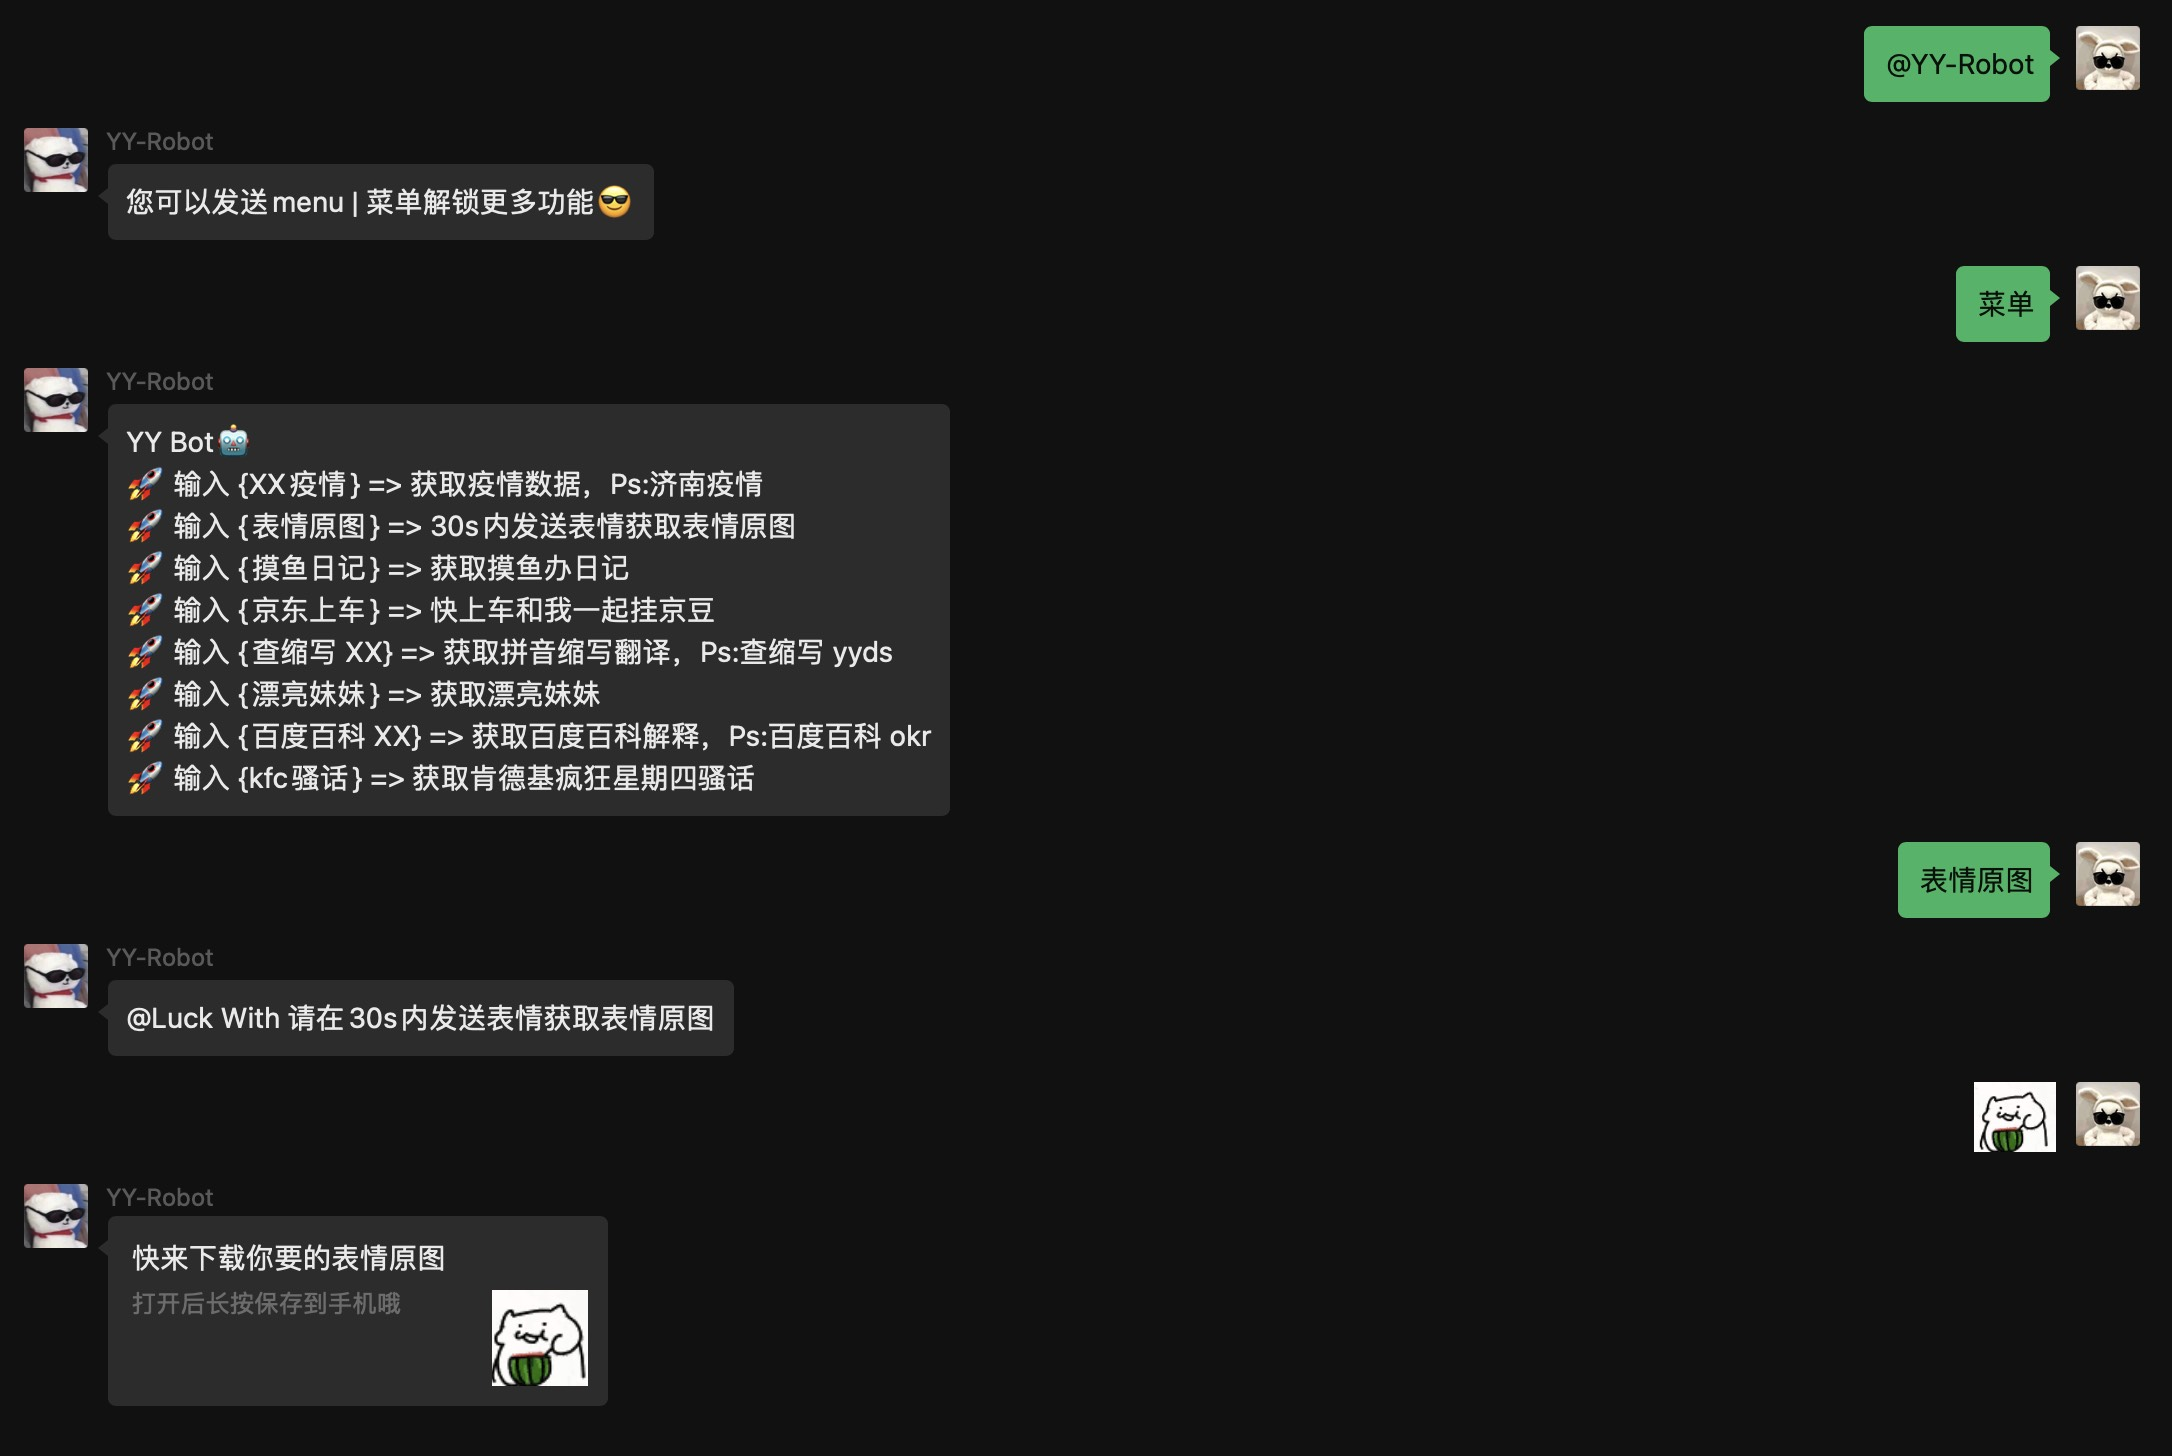
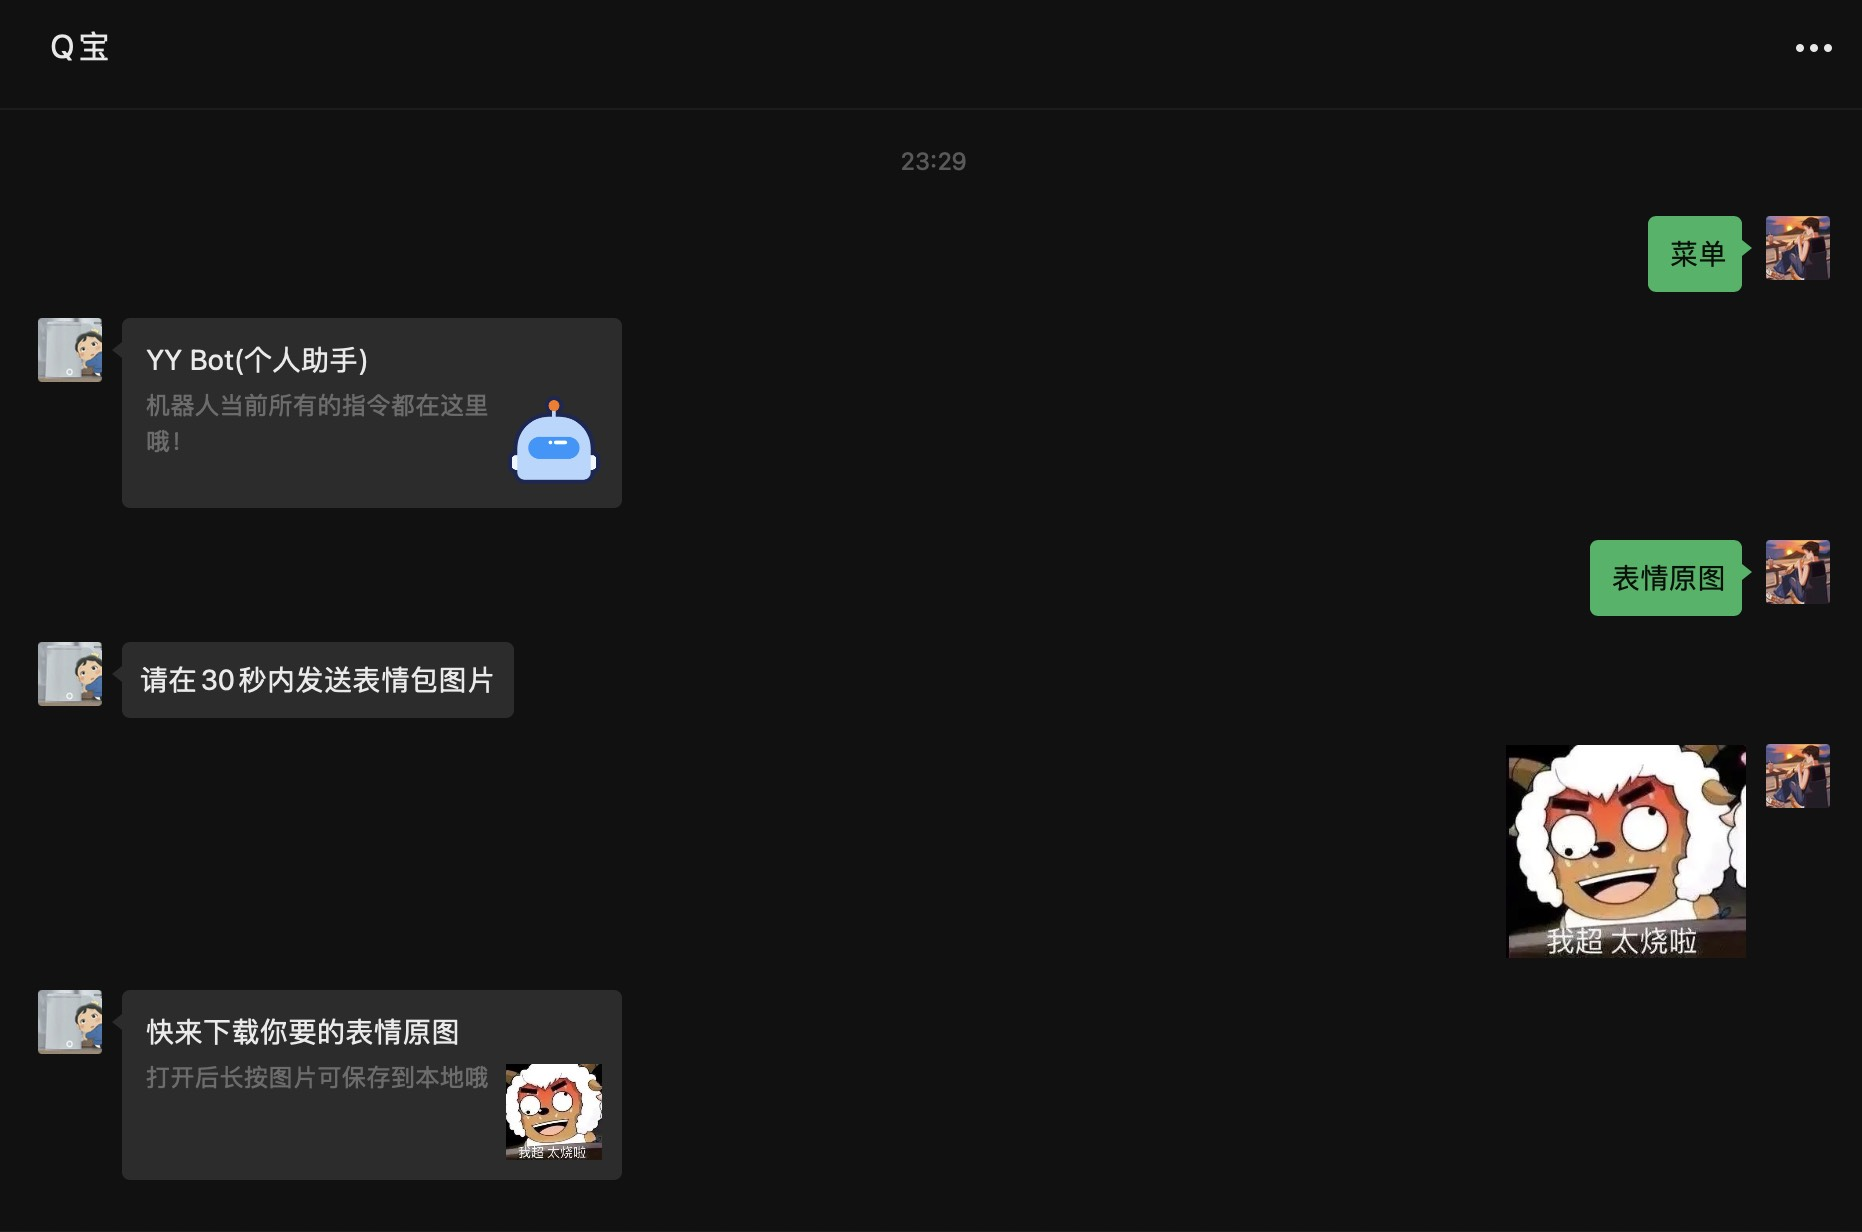
style: 调整菜单输出样式

diff --git a/plugins/manager/cronjob.go b/plugins/manager/cronjob.go
@@ -39,8 +39,22 @@ type CronJob struct {
 
 func registerCronjob() {
 	engine := control.Register("cronjob", &control.Options{
-		Alias:      "定时任务",
-		Help:       "管理员设置定时任务",
+		Alias: "定时任务",
+		Help: "权限:\n" +
+			"仅限机器人管理员\n\n" +
+			"指令:\n" +
+			"* 设置菜单模式[1|2] -> 默认为模式1文本输出，模式2为网页输出(需要配置公网地址)\n" +
+			"* 设置每月[]号[]的提醒 -> 例如：设置每月8号10:00:00的提醒\n" +
+			"* 设置每周[][]的提醒 -> 例如：设置每周三10:00:00的提醒\n" +
+			"* 设置每天[]的提醒 -> 例如：设置每天10:00:00的提醒\n" +
+			"* 设置每隔[]的提醒 -> 例如：设置每隔1小时的提醒\n" +
+			"* 设置[]的提醒 -> 例如：设置2023-01-01 15:00:00的提醒\n" +
+			"* 设置表达式[]的提醒 -> 例如：设置表达式(*/10 * * * * *)的提醒\n" +
+			"* 设置每天[]执行插件 -> 例如：设置每天08:00:00执行插件\n" +
+			"* 列出所有任务\n" +
+			"* 删除任务 [任务ID]\n" +
+			"* 删除全部任务\n" +
+			"* 删除全部提醒任务",
 		DataFolder: "manager",
 	})
 	if err := db.Create("cronjob", &CronJob{}); err != nil {

diff --git a/plugins/wordcloud/main.go b/plugins/wordcloud/main.go
@@ -18,10 +18,13 @@ import (
 func init() {
 	engine := control.Register("wordcloud", &control.Options{
 		Alias: "词云",
-		Help: "输入 {热词} => 获取当前聊天室热词，默认当前聊天室Top30条\n" +
-			"输入 {热词 top 10} => 获取当前聊天室热词前10条\n" +
-			"输入 {热词 id xxx} => 获取指定聊天室热词\n" +
-			"输入 {热词 id xxx top 10} => 获取指定聊天室热词前10条\n",
+		Help: "描述:\n" +
+			"想了解一下当前聊天室的聊天热点？快来试一试\n\n" +
+			"指令:\n" +
+			"* 热词 -> 获取当前聊天室热词，默认当前聊天室Top30条\n" +
+			"* 热词 top [10] -> 获取当前聊天室热词前10条\n" +
+			"* 热词 id [xxx] -> 获取指定聊天室热词\n" +
+			"* 热词 id [xxx] top [10] -> 获取指定聊天室热词前10条\n",
 		DataFolder: "wordcloud",
 	})
 

diff --git a/plugins/chatgpt/main.go b/plugins/chatgpt/main.go
@@ -50,8 +50,11 @@ var defaultGptModel = GptModel{
 
 func init() {
 	engine := control.Register("chatgpt", &control.Options{
-		Alias:      "ChatGPT",
-		Help:       "输入 {开始会话} => 进行ChatGPT连续会话\n输入 {提问 [问题]} => 可以单独提问，没有上下文",
+		Alias: "ChatGPT",
+		Help: "指令:\n" +
+			"* 开始会话 -> 进行ChatGPT连续会话\n" +
+			"* 提问 [问题] -> 单独提问，没有上下文\n" +
+			"* 作画 [描述] -> 生成图片",
 		DataFolder: "chatgpt",
 		OnDisable: func(ctx *robot.Ctx) {
 			ctx.ReplyText("禁用成功")

diff --git a/plugins/pinyinsuoxie/main.go b/plugins/pinyinsuoxie/main.go
@@ -14,7 +14,10 @@ import (
 func init() {
 	engine := control.Register("chasuoxie", &control.Options{
 		Alias: "查缩写",
-		Help:  "输入 {查缩写 XX} => 获取拼音缩写翻译，Ps:查缩写 yyds",
+		Help: "描述:\n" +
+			"奇奇怪怪的拼音缩写咱也不知道啥意思啊，快来查一查\n\n" +
+			"指令:\n" +
+			"* 查缩写 [内容] -> 获取拼音缩写翻译，Ps:查缩写 yyds",
 	})
 	engine.OnRegex(`^查缩写 ?([a-zA-Z0-9]+)$`).SetBlock(true).Handle(func(ctx *robot.Ctx) {
 		word := ctx.State["regex_matched"].([]string)[1]

diff --git a/plugins/memepicture/main.go b/plugins/memepicture/main.go
@@ -20,8 +20,11 @@ import (
 
 func init() {
 	engine := control.Register("memepicture", &control.Options{
-		Alias:      "表情原图",
-		Help:       "输入 {表情原图} => 30s内发送表情获取表情原图",
+		Alias: "表情原图",
+		Help: "描述:\n" +
+			"表情包不能直接保存下来是个很头疼的事，有时候我们需要保存下来发在其他社交平台，该插件就是这个功能\n\n" +
+			"指令:\n" +
+			"* 表情原图 -> 30s内发送表情包获取表情原图",
 		DataFolder: "memepicture",
 	})
 

diff --git a/plugins/ghmonitor/main.go b/plugins/ghmonitor/main.go
@@ -24,8 +24,12 @@ type Monitor struct {
 
 func init() {
 	engine := control.Register("ghmonitor", &control.Options{
-		Alias:      "公众号监控",
-		Help:       "监控公众号 (gh_.*) 转发到 (.*)\n监控公众号关键词 (.*) 转发到 (.*)",
+		Alias: "公众号监控",
+		Help: "权限:\n" +
+			"仅限机器人管理员\n\n" +
+			"指令:\n" +
+			"* 监控公众号 (gh_.*) 转发到 (.*)\n" +
+			"* 监控公众号关键词 (.*) 转发到 (.*)",
 		DataFolder: "ghmonitor",
 	})
 

diff --git a/plugins/zaobao/main.go b/plugins/zaobao/main.go
@@ -26,8 +26,10 @@ type ZaoBao struct {
 
 func init() {
 	engine := control.Register("zaobao", &control.Options{
-		Alias:      "每日早报",
-		Help:       "输入 {每日早报|早报} => 获取每天60s读懂世界",
+		Alias: "每日早报",
+		Help: "指令:\n" +
+			"* 早报 -> 获取每天60s读懂世界\n" +
+			"* 每日早报 -> 获取每天60s读懂世界",
 		DataFolder: "zaobao",
 		OnEnable: func(ctx *robot.Ctx) {
 			// todo 启动将定时任务加入到定时任务列表

diff --git a/plugins/crazykfc/main.go b/plugins/crazykfc/main.go
@@ -18,7 +18,10 @@ func init() {
 	rand.Seed(time.Now().UnixNano())
 	engine := control.Register("kfccrazy", &control.Options{
 		Alias: "kfc骚话",
-		Help:  "输入 {kfc骚话} => 获取肯德基疯狂星期四骚话",
+		Help: "描述:\n" +
+			"奇怪的网友编了一些奇怪的骚话，让我们一起看看吧\n\n" +
+			"指令:\n" +
+			"* kfc骚话 -> 获取肯德基疯狂星期四骚话",
 	})
 
 	engine.OnFullMatch("kfc骚话").SetBlock(true).Handle(func(ctx *robot.Ctx) {

diff --git a/plugins/moyuban/main.go b/plugins/moyuban/main.go
@@ -12,7 +12,9 @@ import (
 func init() {
 	engine := control.Register("moyu", &control.Options{
 		Alias: "摸鱼日历",
-		Help:  "输入 {摸鱼日历|摸鱼} => 获取摸鱼办日历",
+		Help: "指令:\n" +
+			"* 摸鱼 -> 获取摸鱼办日历\n" +
+			"* 摸鱼日历 -> 获取摸鱼办日历",
 	})
 	engine.OnFullMatchGroup([]string{"摸鱼日历", "摸鱼"}).SetBlock(true).Handle(func(ctx *robot.Ctx) {
 		if imageUrl := getMoYuBan(); imageUrl == "" {

diff --git a/plugins/coser/main.go b/plugins/coser/main.go
@@ -18,8 +18,9 @@ import (
 func init() {
 	engine := control.Register("coser", &control.Options{
 		Alias: "coser",
-		Help: "输入 {coser} => 获取 1 张 coser 作品\n" +
-			"输入 {coser 5} => 获取 5 张 coser 作品，限制 10 张",
+		Help: "指令:\n" +
+			"* coser -> 获取1张coser作品\n" +
+			"* coser 5 -> 获取5张coser作品，限制10张",
 	})
 
 	engine.OnFullMatch("coser").SetBlock(true).Handle(func(ctx *robot.Ctx) {

diff --git a/plugins/youdaofanyi/main.go b/plugins/youdaofanyi/main.go
@@ -13,8 +13,9 @@ import (
 func init() {
 	engine := control.Register("youdaofanyi", &control.Options{
 		Alias: "有道中英文互译",
-		Help: "用法：有道翻译|翻译 XX\n" +
-			"示例：翻译 detail",
+		Help: "指令:\n" +
+			"* 翻译 [内容]\n" +
+			"* 有道翻译 [内容]\n",
 	})
 
 	engine.OnRegex(`(^有道翻译|^翻译) ?(.*?)$`).SetBlock(true).Handle(func(ctx *robot.Ctx) {

diff --git a/plugins/weather/main.go b/plugins/weather/main.go
@@ -20,8 +20,9 @@ var (
 
 func init() {
 	engine := control.Register("weather", &control.Options{
-		Alias:      "天气查询",
-		Help:       "输入 {XX天气} => 获取天气数据，Ps:济南天气、北京-朝阳天气",
+		Alias: "天气查询",
+		Help: "指令:\n" +
+			"* [城市名]天气 -> 获取天气数据，Ps:济南天气、北京-朝阳天气",
 		DataFolder: "weather",
 	})
 
